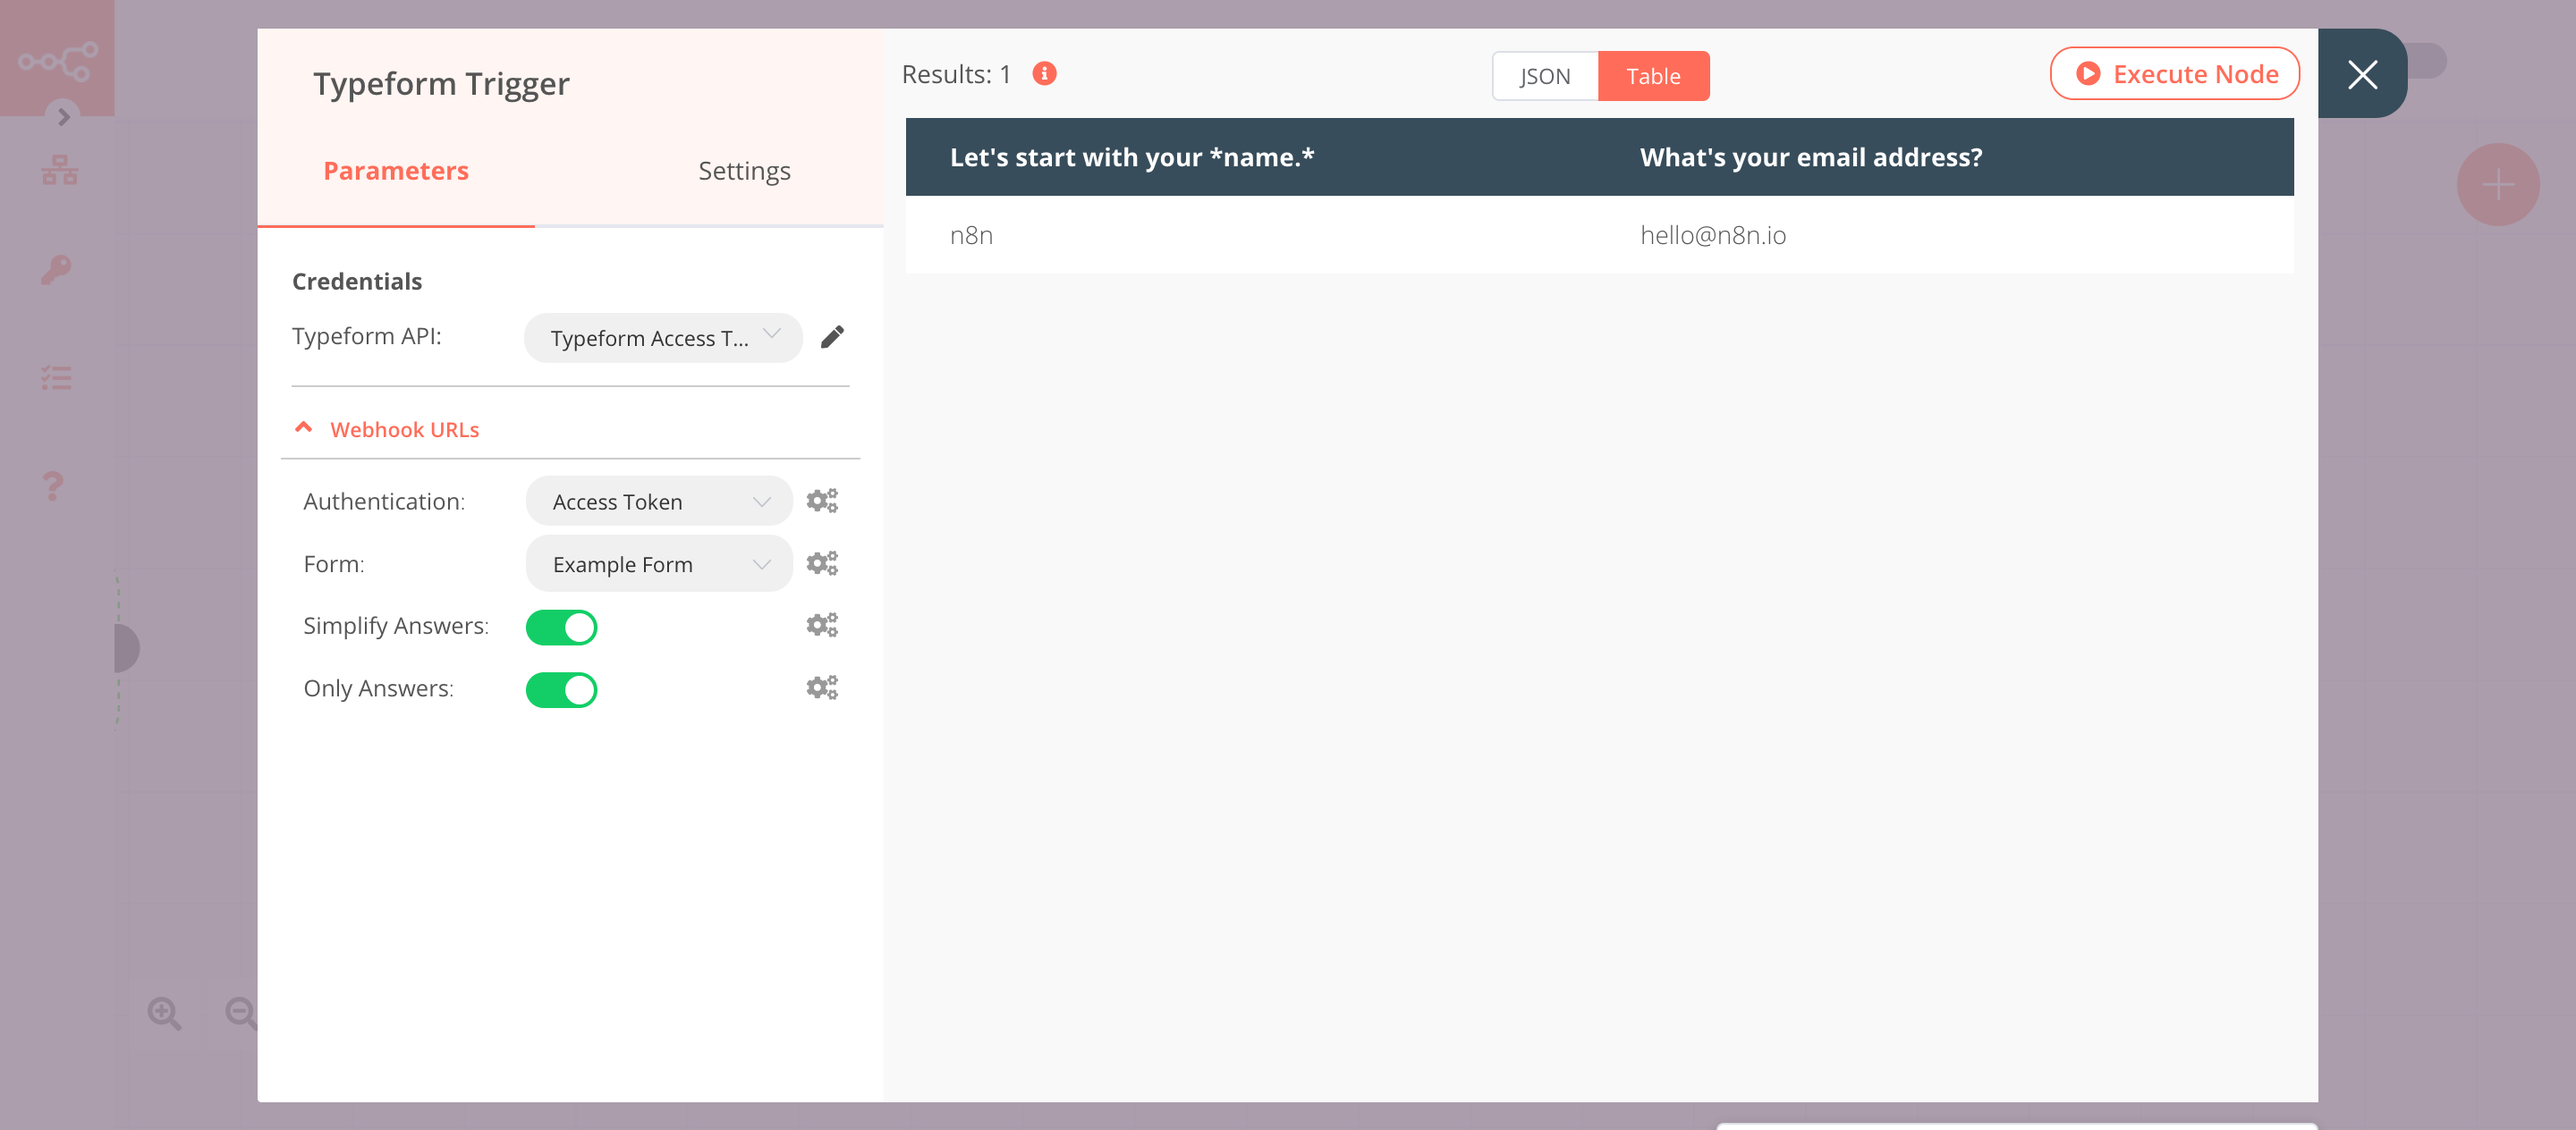
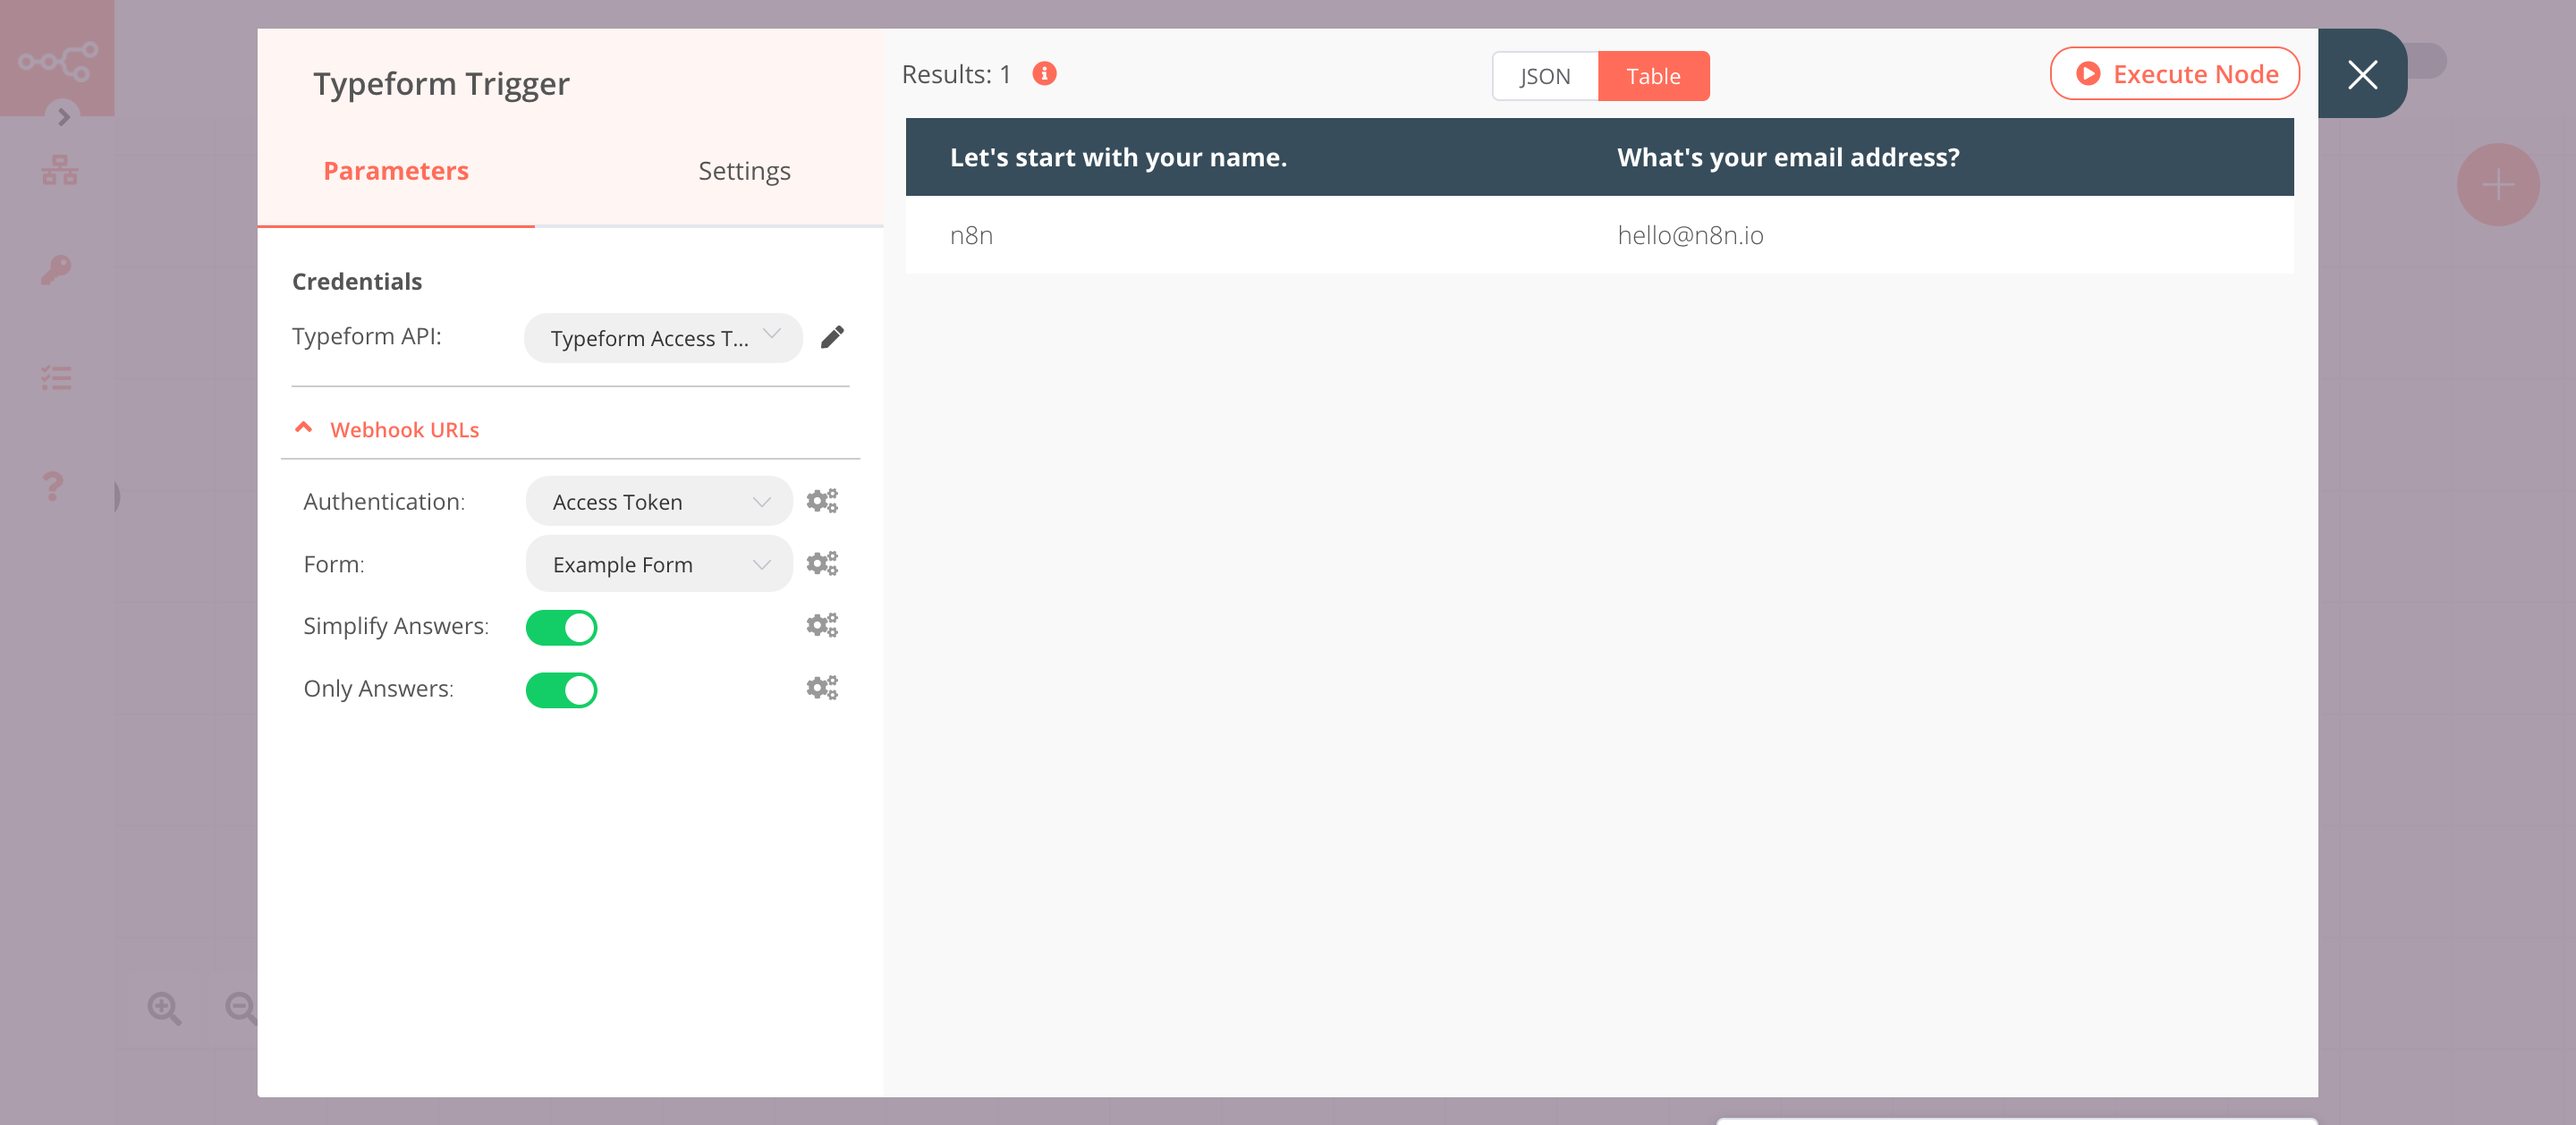
🔨Minor fix

diff --git a/docs/nodes/nodes-library/trigger-nodes/TypeformTrigger/README.md b/docs/nodes/nodes-library/trigger-nodes/TypeformTrigger/README.md
@@ -33,10 +33,10 @@ This example workflow uses a Typeform to collect name and email address. Below a
 
 |Question | Type  |
 |---------|-------|
-|Let's start with your name | Short Text |
+|Let's start with your name. | Short Text |
 |What's your email address? | Email |
 
-If you haven't, create a form similar to this [form](https://n8ndocsburner.typeform.com/to/dpr2kxSL).
+If you haven't, create a form exactly the same as this [form](https://n8ndocsburner.typeform.com/to/dpr2kxSL).
 
 
 1. First of all, you'll have to enter credentials for the Typeform Trigger node. You can find out how to do that [here](../../../credentials/Typeform/README.md).
@@ -54,7 +54,7 @@ We will use the Set node to ensure that only the data that we set in this node g
 1. Click on ***Add Value*** and select 'String' from the dropdown list.
 2. Enter `Name` in the ***Name*** field.
 3. Click on the gears icon next to the ***Value*** field and click on ***Add Expression***.
-4. Select the following in the ***Variable Selector*** section: Current Node > Input Data > JSON > Let's start with your *name.*. You can also add the following expression: `{{$json["Let's start with your *name.*"]}}`.
+4. Select the following in the ***Variable Selector*** section: Current Node > Input Data > JSON > Let's start with your name.. You can also add the following expression: `{{$json["Let's start with your name."]}}`.
 5. Click on ***Add Value*** and select 'String' from the dropdown list.
 6. Enter `Email` in the ***Name*** field.
 7. Click on the gears icon next to the ***Value*** field and click on ***Add Expression***.
